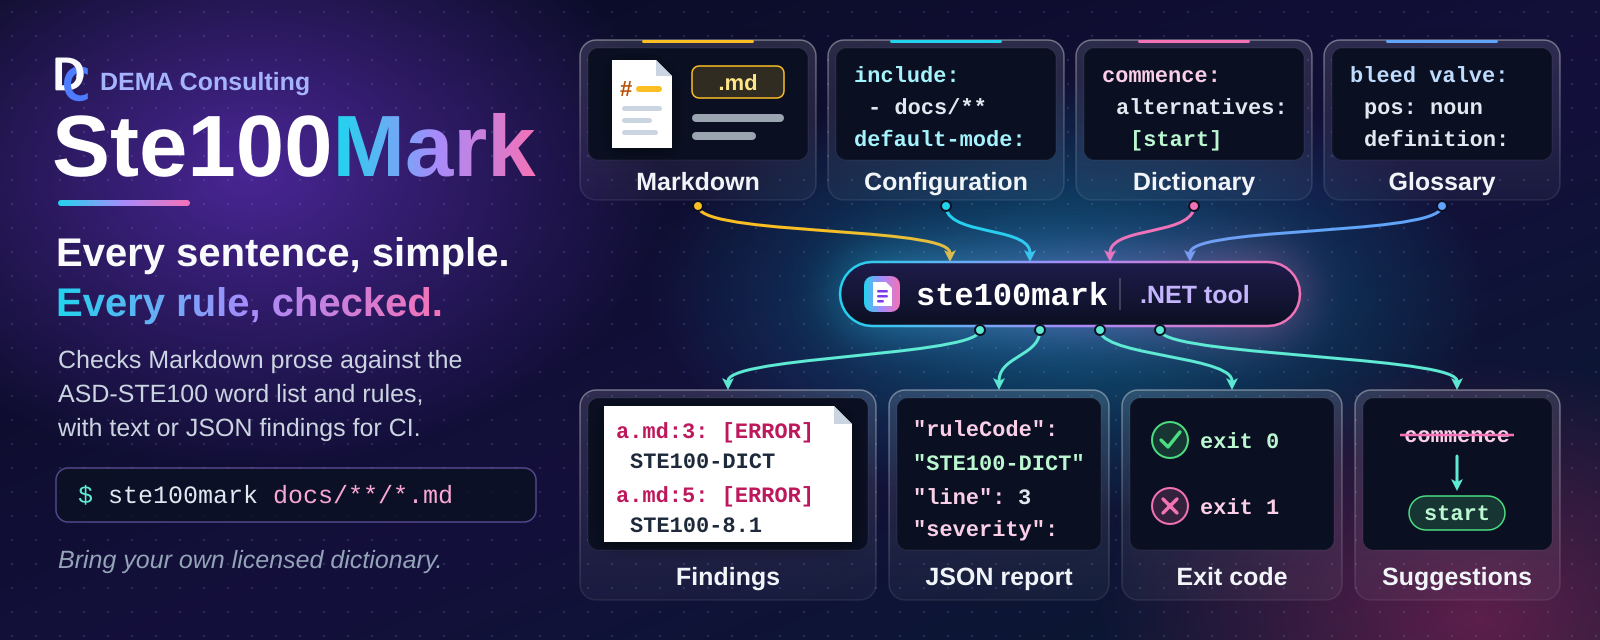
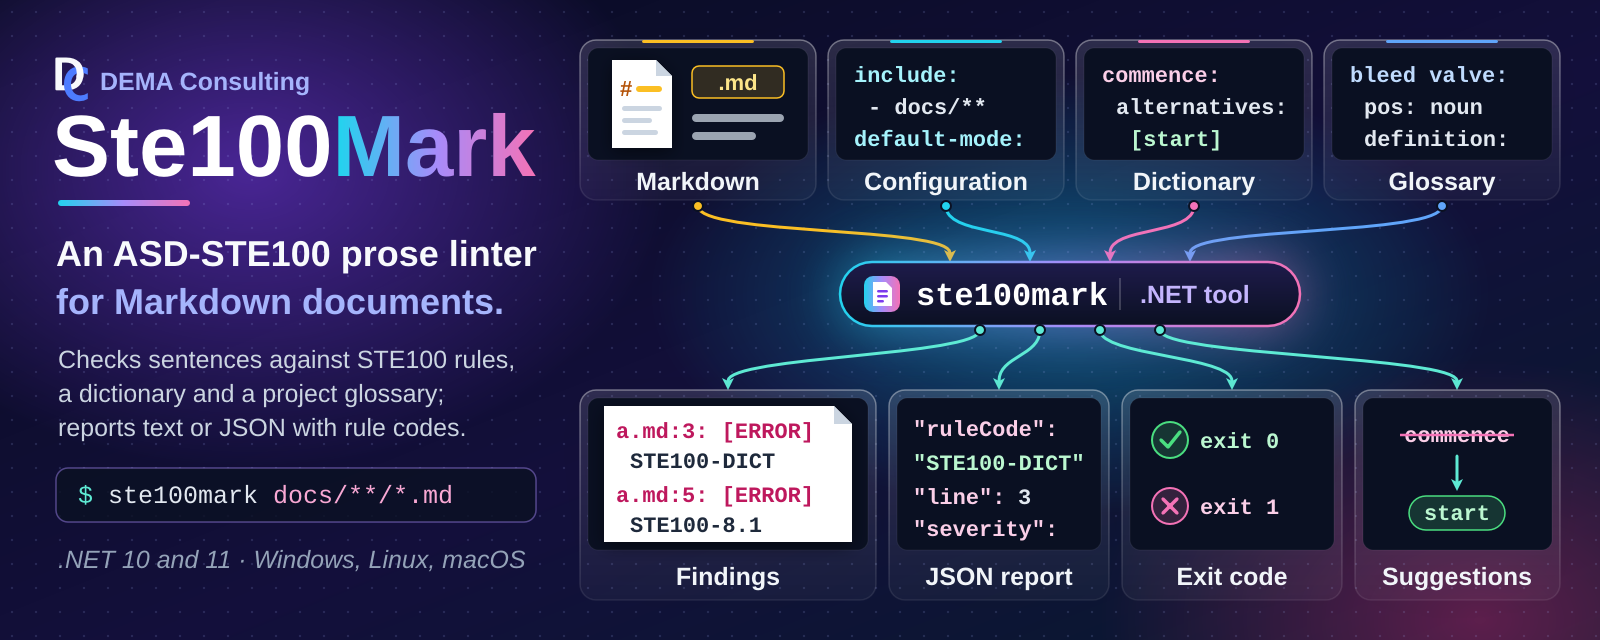
Sync agents/template and calm the README hero (#69)
* Sync shared agents, skills, and standards from Agents main

Brings in Agents #62 (orchestrator Pull Requests section, planning Feasibility and Delivery, AGENTS.md Project Scripts section) and #64 (SysML2 one uniquely named package per file). Records the legacy SysML2 package layout as a repository-specific exception.

* Sync template: yamlfix comment setting and script CUSTOMIZATION headers

Applies Agents template #61 (comments_require_starting_space = false) and #63 (CUSTOMIZATION headers replace the MODIFICATION POLICY text). Comment-only script changes; fix.ps1 produced no YAML changes.

* README hero: plain tagline, calmer text, hero as the H1

Applies Agents template #66/#67: the tagline is a plain statement in solid colors, the body and footnote are factual, and the hero image is the README H1 with the project name and tagline as its alt text.

---------

Changed region(s): [[0.0312, 0.375, 0.3438, 0.5], [0.0312, 0.5312, 0.3125, 0.6875], [0.0312, 0.8438, 0.3438, 0.9062]]

diff --git a/.github/standards/sysml2-modeling.md b/.github/standards/sysml2-modeling.md
@@ -31,15 +31,15 @@ docs/sysml2/
 ├── common/
 │   └── software-items.sysml           # shared SoftwareItemMetadata::SoftwareInfo metadata def
 ├── model/
-│   ├── {system-name}.sysml            # system-level part def only (no subsystems/units inline)
+│   ├── {system-name}.sysml            # package {SystemName}; system-level part def only (no subsystems/units inline)
 │   ├── {system-name}/
-│   │   ├── {subsystem-name}.sysml     # subsystem part def; nests further for sub-subsystems
+│   │   ├── {subsystem-name}.sysml     # package {SystemName}_{SubsystemName}Subsystem; nests further for sub-subsystems
 │   │   └── {subsystem-name}/
-│   │       └── {unit-name}.sysml      # one file per unit
-│   ├── ots.sysml                      # OTS dependency parts (optional; if OTS items exist)
-│   └── shared.sysml                   # Shared Package parts (optional; if Shared Packages exist)
+│   │       └── {unit-name}.sysml      # package {SystemName}_{UnitName}; one file per unit
+│   ├── ots.sysml                      # package OtsDependencies: OTS parts (optional; if OTS items exist)
+│   └── shared.sysml                   # package SharedPackages: Shared Package parts (optional; if Shared Packages exist)
 └── views/
-    └── design-views.sysml             # named view usages rendered for the design document
+    └── design-views.sysml             # package {RepoName}DesignViews; named view usages rendered for the design document
 ```
 
 `docs/sysml2/common/software-items.sysml` defines the `SoftwareItemMetadata::SoftwareInfo`
@@ -62,14 +62,42 @@ so no single alias name would generalize. Agents discover the system(s) present 
 `docs/sysml2/**/*.sysml`, not by assuming a fixed name.
 
 Always pass the full set of `.sysml` files (or an equivalent glob) to every `sysml2tools`
-invocation — the model spans multiple files and cross-references between them; files sharing
-the same `package Name { ... }` merge into one namespace automatically with no `import`
-required, as long as all files are passed together. As of `sysml2tools` 0.1.0-beta.5,
+invocation — the model spans multiple files and cross-references between them, and a
+reference only resolves when the file declaring its target is loaded (see Package Structure
+below for how files reference each other). As of `sysml2tools` 0.1.0-beta.5,
 `lint` and `render` both expand `*`/`**` glob patterns internally (recursing correctly into
 subdirectories), so pass a single **quoted** glob string (e.g. `'docs/sysml2/**/*.sysml'`)
 and let the tool resolve it — do not rely on the shell to expand it, and do not quote-strip
 the pattern before it reaches the tool. Quoting keeps the behavior identical across
 PowerShell and bash, since neither shell needs to (or reliably does) expand `**` itself.
+
+## Package Structure
+
+SysML v2 has no package merging: each file is its own root namespace, and two root packages
+with the same name are duplicate members of the global namespace (the OMG Pilot
+Implementation reports "Duplicate of other owned member name" for each, and references across
+the halves do not resolve). A model that only loads because a tool is lenient is not portable,
+so:
+
+- Each `.sysml` file declares **exactly one uniquely named package**, and a package is never
+  declared (or "reopened") in more than one file.
+- Name each package from its place in the hierarchy, joined with an underscore:
+  `{SystemName}` for the system file, `{SystemName}_{SubsystemName}Subsystem` for a subsystem
+  (including a nested sub-subsystem, which is not prefixed with its parent subsystem), and
+  `{SystemName}_{UnitName}` for a unit. The system prefix keeps names unique across systems.
+  The shared files use `OtsDependencies` and `SharedPackages`, and the single views file uses
+  one repository-level package, `{RepoName}DesignViews` (not one per system).
+- Package names must be unique **repository-wide**. The short forms above are the default;
+  when one would collide (two `Storage` subsystems in different branches, or two units named
+  `Cache` in different subsystems), qualify it with the owning subsystem path, for example
+  `{SystemName}_{SubsystemName}_{UnitName}` (`Acme_Ingest_Cache` and `Acme_Query_Cache`).
+- Reference other files with an explicit `private import {PackageName}::*;` (a system or
+  subsystem file imports the package of each direct member so its `part` usages resolve; every
+  file that applies `SoftwareInfo` imports `SoftwareItemMetadata::*`).
+- Where an import would form a cycle (for example a unit that depends on a package that
+  already imports it), or for a one-off reference into another system, use the qualified name
+  instead, e.g. `dependency {UnitName} to {SystemName}_{OtherUnit}::{OtherUnit};`.
+  Import cycles raise a lint warning; qualified references do not.
 
 ## Model Content
 
@@ -174,11 +202,13 @@ Views control what gets rendered into diagrams for the design document. Use name
 **usages** (not `view def` **definitions**) — `expose` is only valid inside a usage:
 
 ```sysml
-package {SystemName} {
+package {RepoName}DesignViews {
     private import StandardViewDefinitions::*;
+    private import {SystemName}::*;
+    private import {SystemName}_{SubsystemName}Subsystem::*;
 
     view SoftwareStructureView : InterconnectionView {
-        expose {SystemName}::**;     // all members, recursively: system + subsystems + units
+        expose {SystemName}::{SystemName}System::**;  // system part def, recursively: subsystems + units
     }
 
     view {SystemName}View {
@@ -186,10 +216,12 @@ package {SystemName} {
     }
 
     view {SubsystemName}View {
-        expose {SubsystemName};      // one subsystem def only
+        expose {SubsystemName}Subsystem;      // one subsystem def only
     }
 }
 ```
+
+Views import (or qualify) every package whose members they expose, like any other file.
 
 Type `SoftwareStructureView` by a standard view definition from the SysML v2 Views library
 (`GeneralView`, `InterconnectionView`, ...; requires `sysml2tools` 0.3.0-beta.3+). The view
@@ -223,25 +255,27 @@ There is no dedicated `DependencyView`/`{SubsystemName}DependencyView` diagram c
 above), not rendered.
 
 When a repository has multiple systems, type `SoftwareStructureView` by `GeneralView`,
-expose each system package's members, and filter out documentation so the overview stays
-readable — the general view draws one package frame per system, while an interconnection
-view places all systems in a single row:
+expose each system's part def (and each subsystem's, by qualified name), and filter out
+documentation so the overview stays readable — the general view draws one package frame per
+system, while an interconnection view places all systems in a single row:
 
 ```sysml
 package {RepoName}DesignViews {
     private import StandardViewDefinitions::*;
 
     view SoftwareStructureView : GeneralView {
-        expose {SystemNameA}::**;
-        expose {SystemNameB}::**;
-        filter not @SysML::Documentation;
+        expose {SystemNameA}::{SystemNameA}System;
+        expose {SystemNameA}_{SubsystemName}Subsystem::{SubsystemName}Subsystem;
+        expose {SystemNameB}::{SystemNameB}System;
+        filter not (@SysML::Documentation);
     }
 }
 ```
 
 Documentation (`doc`) is exposed with its owner and drawn as a `doc` compartment unless a
-view filters it out; use `filter not @SysML::Documentation;` wherever doc text would clutter
-a diagram.
+view filters it out; use `filter not (@SysML::Documentation);` wherever doc text would clutter
+a diagram. The parentheses are required: the SysML v2 grammar does not accept the unparenthesized
+`filter not @SysML::Documentation;`.
 
 ## Diagram Embedding
 
@@ -313,6 +347,9 @@ sync.
   `sourceFiles`; the purpose statement appears only in the `doc` comment, never in `SoftwareInfo`
 - [ ] `docs/sysml2/views/design-views.sysml` uses `view Name { expose ...; }` usages, not
   `view def` definitions
+- [ ] Each `.sysml` file declares exactly one uniquely named package (never the same package
+  in two files), named per Package Structure, and references other files through
+  `private import` or qualified names (qualified where an import would form a cycle)
 - [ ] View names follow the `SoftwareStructureView` / `{SystemName}View` /
   `{SubsystemName}View` convention (no dedicated `DependencyView`)
 - [ ] Each Unit's real collaborators are captured as `dependency A to B;` statements, and each

diff --git a/.github/skills/sysml2tools-query/SKILL.md b/.github/skills/sysml2tools-query/SKILL.md
@@ -21,11 +21,15 @@ dotnet tool restore
 ## Model files
 
 - `docs/sysml2/model/{system-name}.sysml` — system-level `part def` only (no subsystems/units
-  inline). A repository may contain more than one system.
+  inline), in package `{SystemName}`. A repository may contain more than one system.
 - `docs/sysml2/model/{system-name}/{subsystem-name}.sysml` and
   `docs/sysml2/model/{system-name}/{subsystem-name}/{unit-name}.sysml` — one file per
   Subsystem/Unit, nested to mirror the same folder depth as that item's companion
-  `docs/design/`, `docs/reqstream/`, and `docs/verification/` files.
+  `docs/design/`, `docs/reqstream/`, and `docs/verification/` files. Each declares its own
+  uniquely named package; by default `{SystemName}_{SubsystemName}Subsystem` or
+  `{SystemName}_{UnitName}`, qualified with the subsystem path
+  (`{SystemName}_{SubsystemName}_{UnitName}`) when the short name would collide. An element's
+  qualified name is e.g. `{SystemName}_{UnitName}::{UnitName}`.
 - `docs/sysml2/model/ots.sysml` — off-the-shelf (OTS) dependency parts (present when OTS items
   exist).
 - `docs/sysml2/model/shared.sysml` — Shared Package parts (present when Shared Package items
@@ -35,9 +39,10 @@ dotnet tool restore
   useful to see how diagrams are scoped.
 
 Always pass all `.sysml` files (or a glob covering them) to every `sysml2tools`
-invocation — the model spans multiple files and cross-references between them; files that
-reopen the same `package Name { ... }` from different files merge into one namespace
-automatically, no `import` required. As of `sysml2tools` 0.1.0-beta.5, every subcommand
+invocation — the model spans multiple files and cross-references between them (each file
+declares one uniquely named package and references others through `import` or qualified
+names; same-named packages in different files are not merged), so every file a reference
+points at must be loaded. As of `sysml2tools` 0.1.0-beta.5, every subcommand
 (`lint`, `render`, `query`) expands `*`/`**` glob patterns internally and recurses
 correctly — pass a single **quoted** glob string and let the tool resolve it, rather than
 relying on the shell (quoting works identically in both PowerShell and bash):
@@ -57,7 +62,7 @@ summary line, so one query gets you every artifact location for that item withou
 the source tree:
 
 ```pwsh
-dotnet sysml2tools query describe -e {SystemName}::{UnitName} 'docs/sysml2/**/*.sysml'
+dotnet sysml2tools query describe -e {SystemName}_{UnitName}::{UnitName} 'docs/sysml2/**/*.sysml'
 ```
 
 ```text

diff --git a/AGENTS.md b/AGENTS.md
@@ -165,10 +165,30 @@ requires it and the modification preserves the documented design intent:
 
 - `.reviewmark.yaml`, `.textlint.yaml`, `.editorconfig`
 - `.lintmark.yaml`, `.yamllint.yaml`
-- `requirements.yaml`, `fix.ps1`, `lint.ps1`
+- `requirements.yaml`
+
+# Project Scripts
+
+`build.ps1`, `lint.ps1`, and `fix.ps1` belong to the project: extend them as it grows. Add project-specific
+steps, update tool versions, and add optional parameters that focus a run (for example one library in a
+multi-library repository, or headless tests without GUI automation). Two rules keep them trustworthy:
+
+- Run with no arguments, each script still does its full job (CI and the agents rely on that); slow or
+  environment-dependent test tiers may be opt-in switches of `build.ps1`.
+- Never remove or weaken a check to make lint or tests pass.
 
 # Continuous Compliance Overview
 
 This repository follows the [Continuous Compliance](https://github.com/demaconsulting/ContinuousCompliance)
 approach. Tools: **ReqStream** (requirements traceability), **ReviewMark** (file review enforcement),
 **BuildMark** (tool versions), **VersionMark** (version tracking).
+
+# Repository-Specific Standards Exceptions
+
+## SysML2 package structure (legacy layout, migration pending)
+
+The SysML2 model under `docs/sysml2/` still uses the legacy layout: the `Ste100Mark` package is reopened
+across 29 files, including `model/ots.sysml` (instead of `OtsDependencies`) and `views/design-views.sysml`
+(instead of `Ste100MarkDesignViews`). The `sysml2-modeling.md` Package Structure rules and the
+`sysml2tools-query` qualified-name examples apply once the model is migrated in a dedicated PR. Until then,
+agents use the existing package names and must not partially restructure the model.

diff --git a/.github/agents/orchestrator.agent.md b/.github/agents/orchestrator.agent.md
@@ -48,3 +48,16 @@ briefly, what you loaded.
   let the user answer in their own words. Do not batch decisions into structured question forms (such as an
   `ask_user` tool); they strip away the context the user needs to decide and turn the session into a
   questionnaire.
+
+# Pull Requests (MANDATORY)
+
+Aim for pull requests that each merge one complete, useful change that could be cherry-picked on its own.
+
+- Before starting work that could span more than one pull request, propose the grouping and let the user
+  decide. The user may split it, or combine several small requests into one pull request.
+- When splitting, split by behavior, not by layer or file type: each part carries its own code, tests,
+  requirements, and docs, builds and passes alone, and leaves no stubs or dead code for a later part.
+- Deliver parts in order: start the next part from main only after the previous one merges.
+- Review fixes, lint fixes, and follow-ups go into the open pull request they belong to, not a new one.
+- Sub-agents work on the agreed branch and do not open pull requests; you decide when it is complete.
+- Keep mechanical churn (formatting, renames, generated files) in its own commit so reviewers can skip it.

diff --git a/README.md b/README.md
@@ -1,4 +1,4 @@
-# Ste100Mark
+# ![Ste100Mark: An ASD-STE100 prose linter for Markdown documents][hero]
 
 [![GitHub forks][badge-forks]][link-forks]
 [![GitHub stars][badge-stars]][link-stars]
@@ -8,12 +8,6 @@
 [![Quality Gate][badge-quality]][link-quality]
 [![Security][badge-security]][link-security]
 [![NuGet][badge-nuget]][link-nuget]
-
-![Ste100Mark banner: the Ste100Mark name with the tagline 'Every sentence, simple. Every rule, checked.' and
-the command ste100mark docs/**/*.md. Markdown files, the .ste100mark.yaml configuration, the dictionary word list
-with approved alternatives, and the project glossary flow on curved arrows into the ste100mark .NET tool, and arrows
-lead out to findings reported at file:line with ASD-STE100 rule codes, a JSON report, an exit code of 0 or 1 that a CI
-pipeline can use as a writing-quality gate, and suggested approved words such as start for commence][hero]
 
 Ste100Mark is a .NET CLI tool for linting Markdown prose against ASD-STE100-style rules,
 while also demonstrating DEMA Consulting practices for command-line tooling,

diff --git a/.github/agents/planning.agent.md b/.github/agents/planning.agent.md
@@ -52,10 +52,13 @@ Repeat up to 2 more times, stopping when the plan is stable.
 
 List up to 5 risks with a brief mitigation for each.
 
-## Step 6 — Feasibility Assessment
+## Step 6 — Feasibility and Delivery
 
 State whether this can be implemented in a single development pass and any
-preconditions that affect feasibility.
+preconditions that affect feasibility. Propose how the work groups into pull
+requests: one complete, useful change per pull request where possible; if it
+should be split, list ordered parts that are split by behavior (not by layer or
+file type) and each build, pass, and deliver something on their own.
 
 ## Step 7 — Recommendation
 
@@ -108,9 +111,12 @@ Then respond to the caller with ONLY the lean structured summary below.
 
 1. **[severity]** {risk} — {mitigation}
 
-## Feasibility Assessment
+## Feasibility and Delivery
 
 {Single-pass or not, and why. Any preconditions.}
+
+{Proposed pull-request grouping: one pull request, or ordered parts split by behavior,
+each with what it delivers on its own.}
 
 ## Unknowns
 
